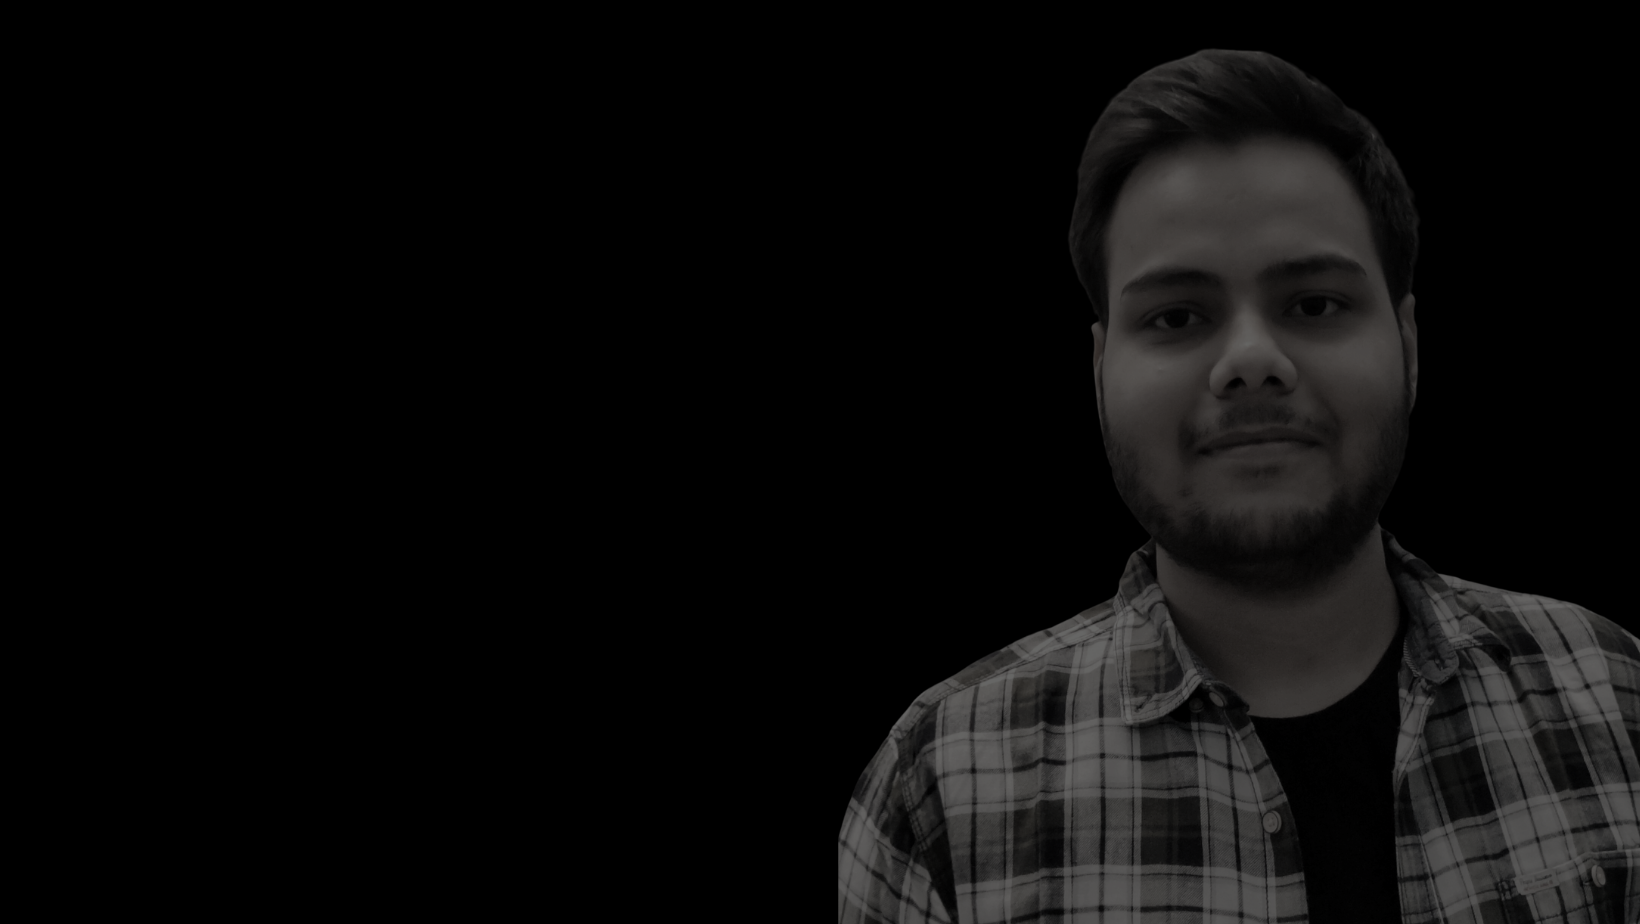
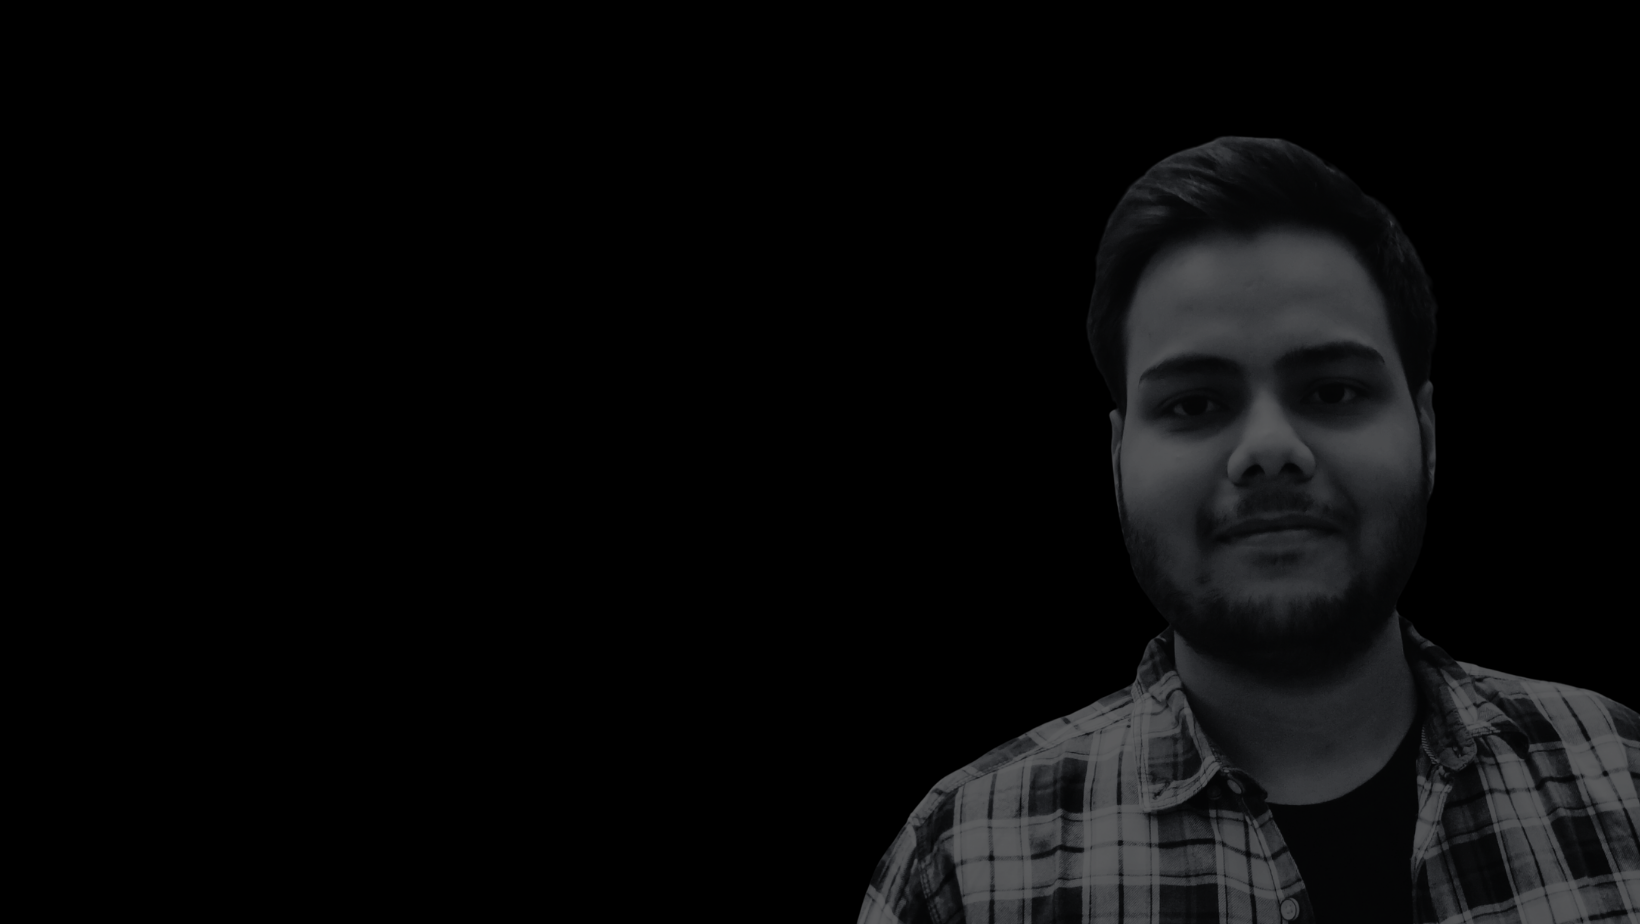
Updated Mobile Design

Changed region(s): [[0.4976, 0.0303, 1.0, 1.0]]

diff --git a/style.css b/style.css
@@ -12,10 +12,11 @@ html {
 }
 
 .navigation {
+  position: fixed;
   display: flex;
   align-items: center;
   justify-content: space-between;
-  padding: 0 0.5rem;
+  padding: 0 1rem;
   width: 100%;
   height: 8vh;
   background-color: black;
@@ -32,7 +33,7 @@ html {
 }
 
 .open {
-  color: #e67e22;
+  color: #fff;
   font-size: 28px;
 }
 
@@ -40,52 +41,70 @@ html {
   display: none;
 }
 
-.intro-container {
-  width: 100%;
-  height: 92vh;
+.container-in {
   display: flex;
   flex-flow: column;
   align-items: center;
+}
+
+.intro-container {
+  width: 100%;
+  height: 100vh;
+  display: flex;
+  flex-flow: column;
   background: url("./author-mobile.png");
   background-position: center;
   background-repeat: no-repeat;
   background-size: cover;
+  transition: all 400ms ease-in;
+  animation-name: roll-over;
+  animation-duration: 400ms;
 }
 
 .intro {
   display: flex;
-  justify-content: center;
+  justify-self: center;
+  flex-flow: column;
   margin-top: 8rem;
-  width: 100%;
+  width: 80%;
 }
 
 .intro-text {
   color: white;
-  font-size: 1.7rem;
+  font-size: 1.5rem;
+  font-weight: 700;
+  margin: 0;
+  transition: all 400ms ease-out;
 }
 
-.name {
+.designation {
+  font-size: 0.8rem;
   font-weight: 700;
-  color: #e67e22;
+  color: #ffffff6e;
+  transition: all 400ms ease-out;
 }
 
 .action-btn {
   display: flex;
+  width: 80%;
+  animation-name: roll-over;
+  animation-duration: 800ms;
 }
 
 .btn {
-  padding: 0.8rem 0.5rem;
-  font-size: 1.2rem;
+  min-width: 7rem;
+  max-width: 12rem;
+  height: 48px;
+  padding: 0.3rem 0.6rem;
+  font-size: 0.85rem;
   border: 0;
   outline: 0;
-  border-radius: 6px;
   cursor: pointer;
-  transition: all 100ms linear;
-  margin-right: 2rem;
+  transition: all 400ms ease-in-out;
 }
 
 .btn-about {
-  background-color: #e67e22;
+  background-color: #001eff;
   color: white;
 }
 
@@ -93,24 +112,45 @@ html {
   border: 1px solid #95a5a6;
   background-color: black;
   color: white;
+  margin-left: 0.6rem;
 }
 
 .btn-about:hover {
   background-color: black;
-  border: 1px solid #27ae60;
+  border: 1px solid #001eff;
 }
 
 .btn-projects:hover {
-  border: 1px solid #27ae60;
+  border: 1px solid #001eff;
 }
 
 .btn:focus {
   border-width: 2px;
 }
 
+@keyframes roll-over {
+  from {
+    opacity: 0;
+    transform: translateY(-20px);
+  }
+  to {
+    opacity: 1;
+    transform: translateY(0);
+  }
+}
+
 @media (min-width: 400px) {
   .intro-text {
     font-size: 2rem;
+  }
+
+  .btn {
+    width: 10rem;
+    font-size: 1rem;
+  }
+
+  .designation {
+    font-size: 1rem;
   }
 }
 
@@ -137,20 +177,16 @@ html {
     background-position: right bottom;
     background-repeat: no-repeat;
     background-size: cover;
+    transition: all 400ms ease-out;
   }
 
   .intro {
     margin-top: -9rem;
-    margin-left: 2rem;
   }
 
   .intro-text {
     font-size: 2.5rem;
     line-height: 1.5;
-  }
-
-  .action-btn {
-    margin-left: 3rem;
   }
 }
 

diff --git a/index.html b/index.html
@@ -37,10 +37,8 @@
     <section class="intro-container">
       <div class="container-in">
         <div class="intro">
-          <p class="intro-text">
-            Hi, I'm <br /><span class="name">Himanshu Dubey.</span><br />
-            I'm a full stack developer
-          </p>
+          <p class="intro-text">Hi I'm Himanshu Dubey.</p>
+          <p class="designation">Full Stack Developer</p>
         </div>
         <div class="action-btn">
           <button class="btn btn-about">About Me</button>
